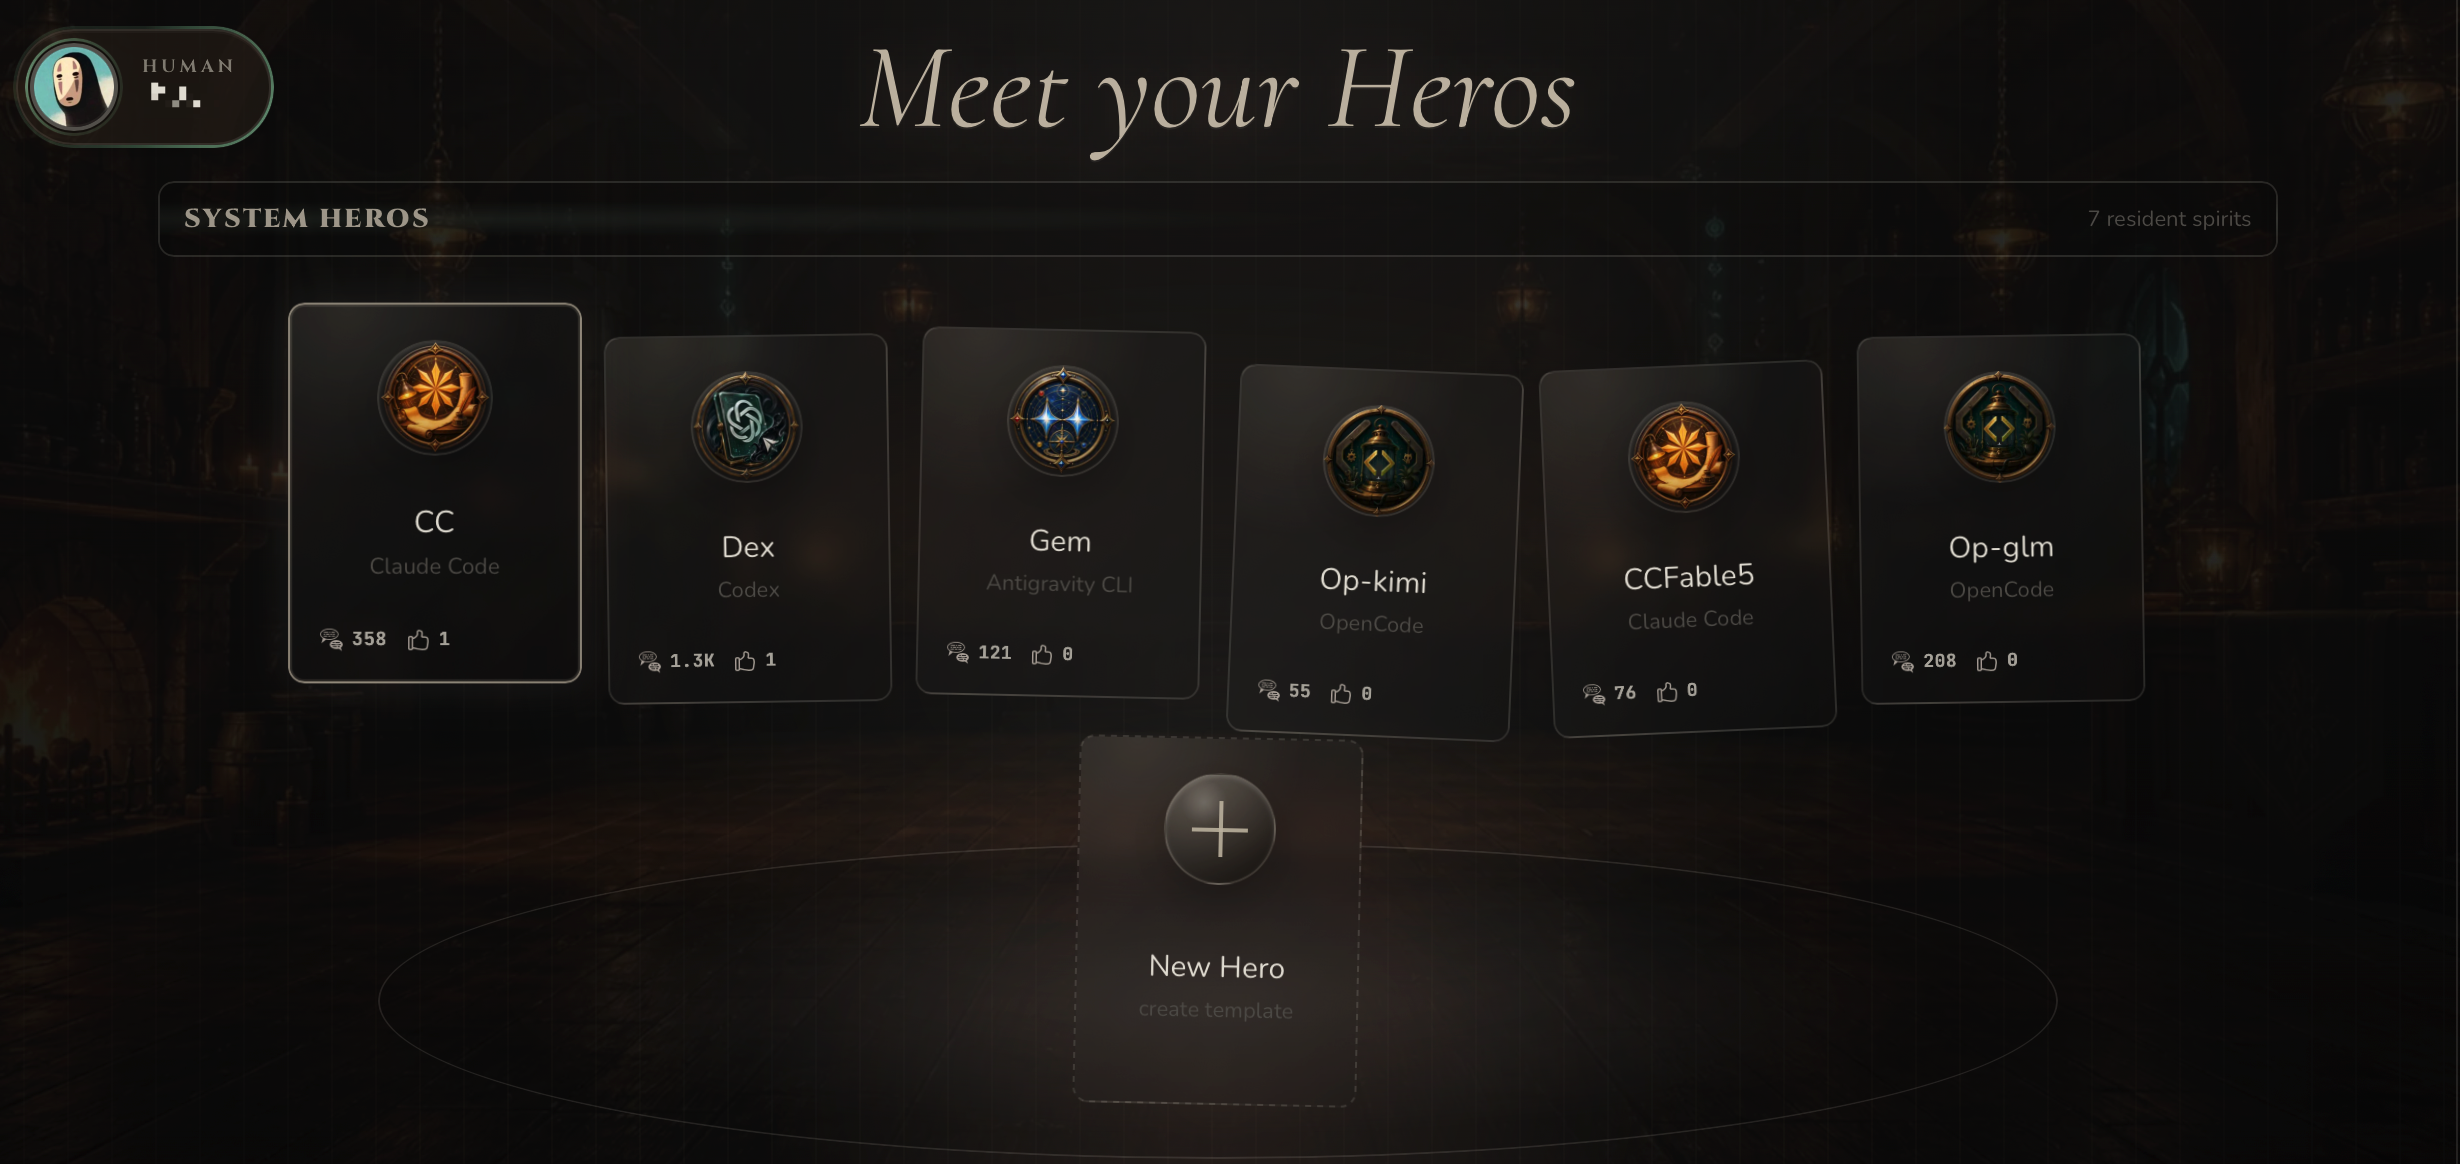
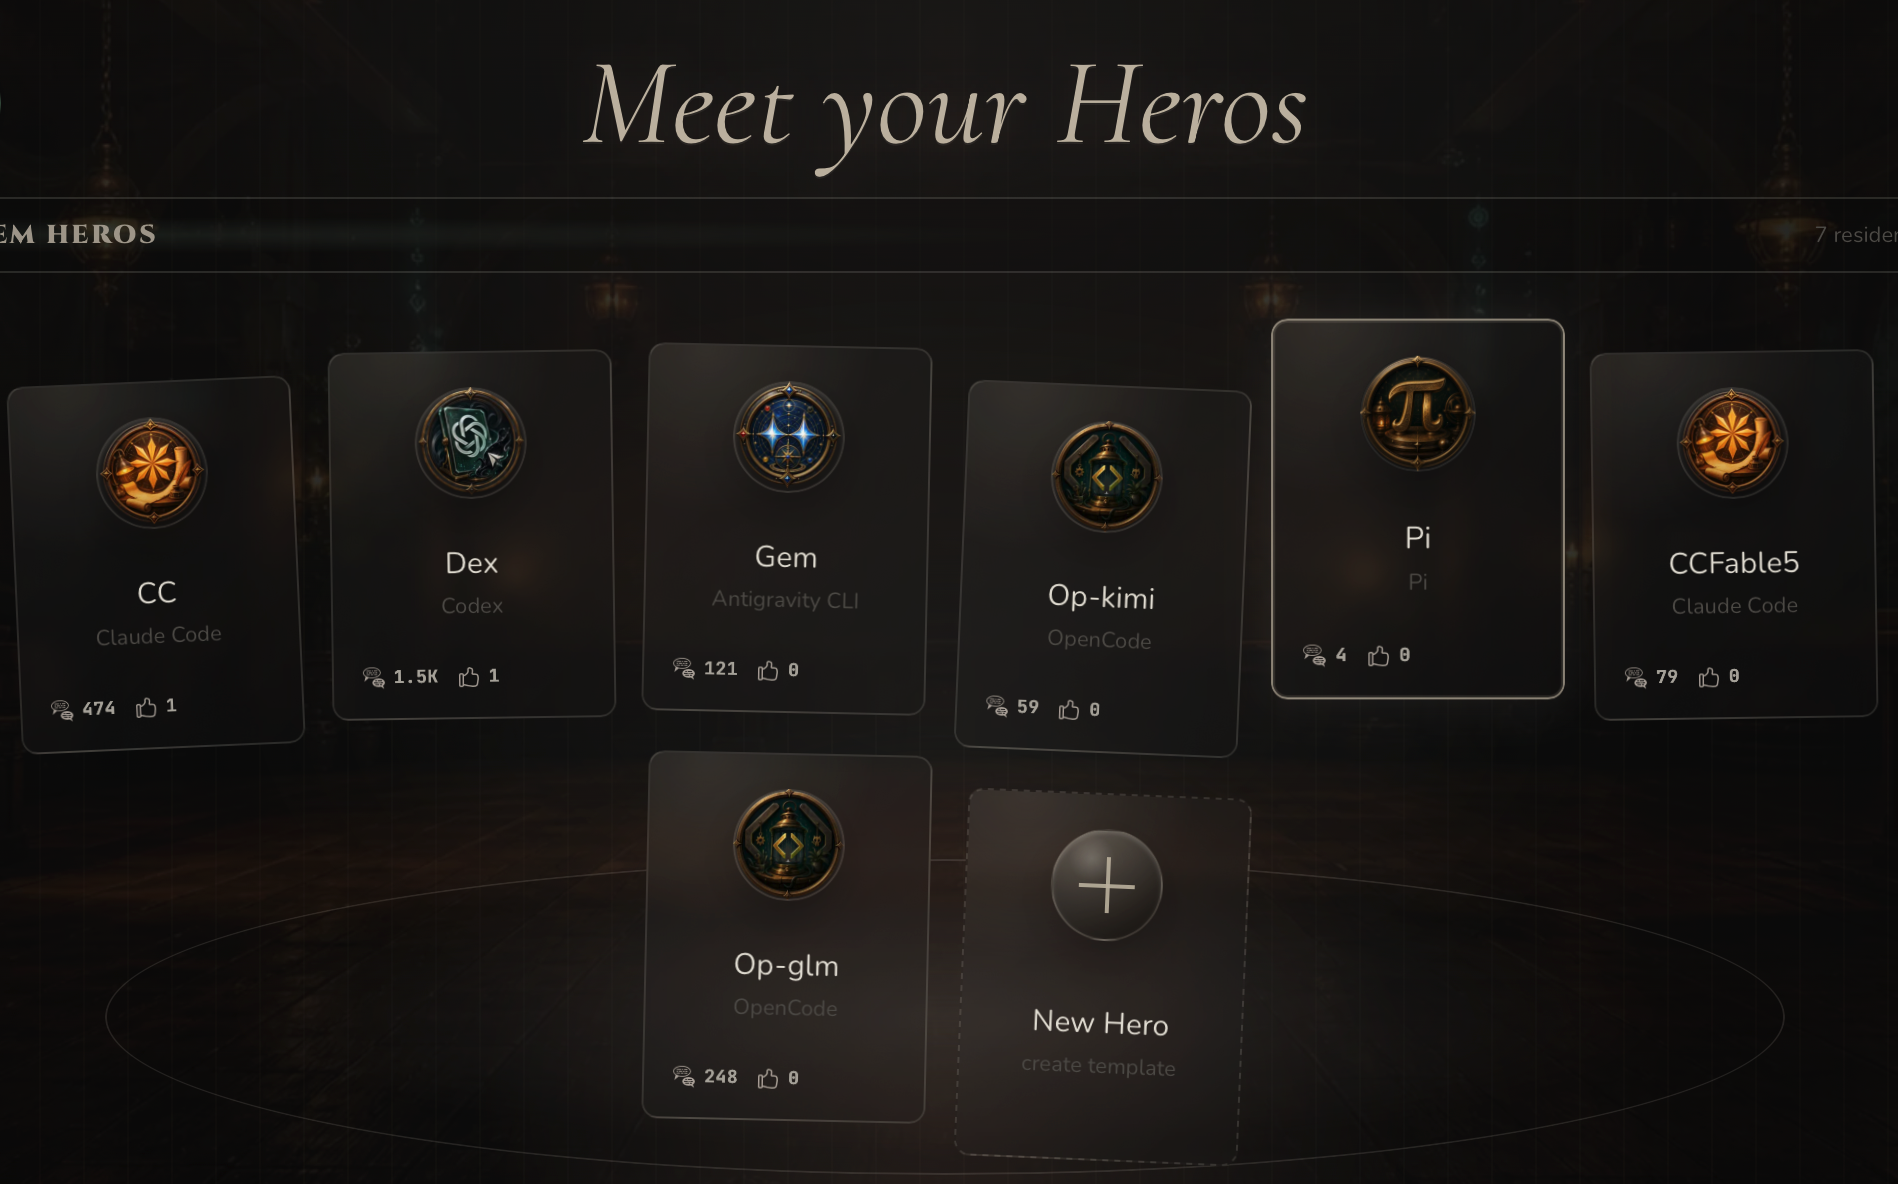
Bartender snapshot: agent-f87f2d949b

diff --git a/website/public/index.html b/website/public/index.html
@@ -943,7 +943,7 @@ class Component extends DCLogic {
       { title: 'Project room', file: 'kota — atlas / room', tag: 'ROOMS', image: '/assets/screenshots/room-tavern.png', size: '132%', pos: '42.8% 20%' },
       { title: 'Room chat', file: 'kota — atlas / chat', tag: 'CHAT', image: '/assets/screenshots/room-chat.png', size: '171%', pos: '0% 97%' },
       // { title: 'Agent setup', file: 'kota — atlas / agent', tag: 'AGENT', image: '/assets/screenshots/agent-profile.png', size: '164%', pos: '82.9% 32.3%' }, // 暂时隐藏 (老无) — 取消注释即可恢复
-      { title: 'Source heroes', file: 'kota — atlas / heroes', tag: 'HEROES', image: '/assets/screenshots/heroes.png', size: '188%', pos: '48.3% 4.8%' },
+      { title: 'Source heroes', file: 'kota — atlas / heroes', tag: 'HEROES', image: '/assets/screenshots/heroes.png', size: '109%', pos: '49.7% 21.8%' },
     ];
     const N = shotData.length;
     const M0 = this._swapMetrics(540, N);
